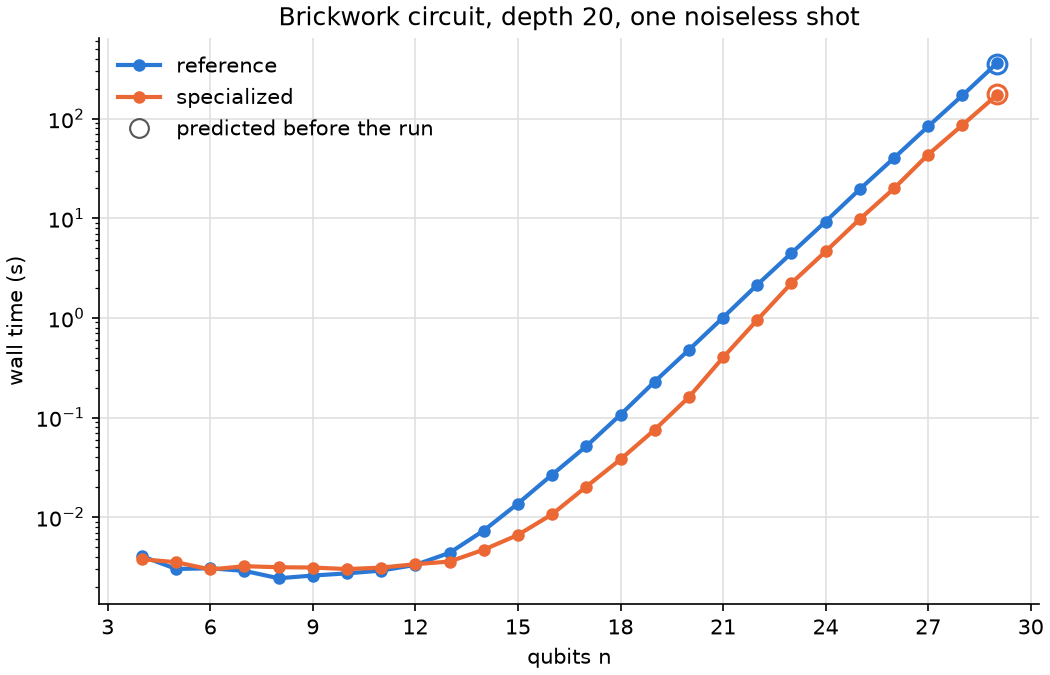
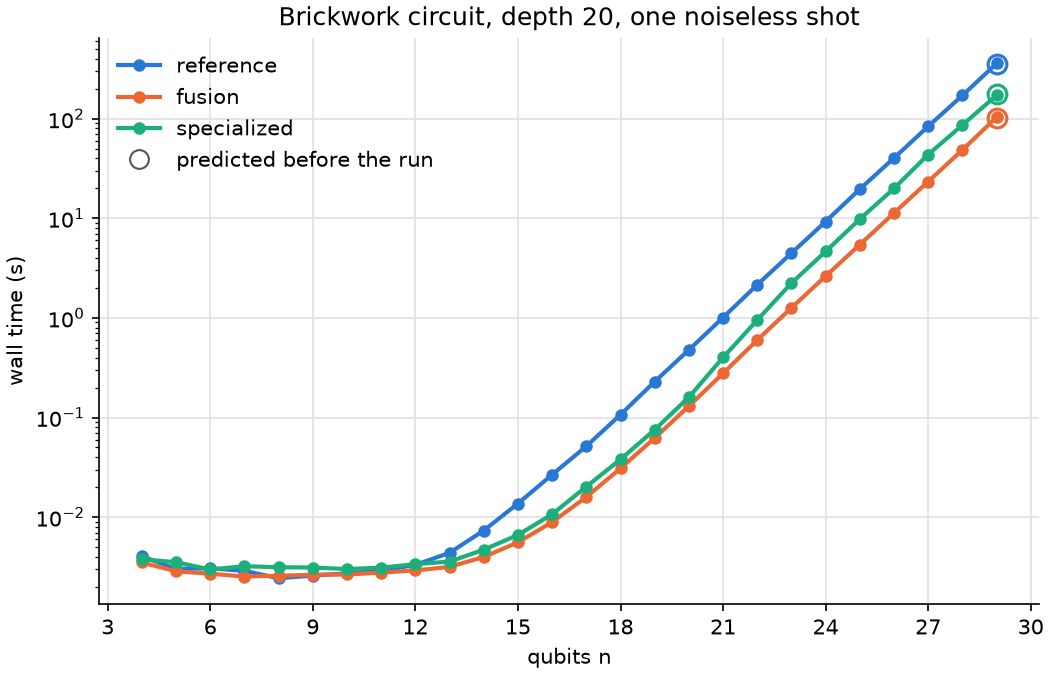
bench: add two-qubit fusion benchmark evidence
The results had no fusion run. Now fusion.json, the profile summary and the
plot show n = 29 in 103.7 s, 1.66x specialized, and 3678 shots/s at n = 12.

diff --git a/benchmarks/results/fusion-profile.md b/benchmarks/results/fusion-profile.md
@@ -1,0 +1,62 @@
+# Fusion profile (fusion 35b3578, Apple M3, Apple clang 21, -O3 -DNDEBUG)
+
+Time Profiler via `xcrun xctrace record`, 1 ms samples, inclusive share of samples. Same
+procedure, circuits and options as `specialized-profile.md`.
+Traces (local only): fusion-many-qubits.trace, fusion-many-shots.trace.
+
+| Function group                             | n=29 noiseless, 1 shot (101918 samples) | n=12 noisy, 100000 shots (26707 samples) |
+|--------------------------------------------|------:|------:|
+| StateVector::apply_real_2q                 | 95.4% | 83.0% |
+| StateVector::apply_real_1q                 | 1.9%  | 5.0%  |
+| StateVector::apply_2q (complex clusters)   | 0%    | 0.2%  |
+| fuse_trajectory (fused-matrix construction) | 0%   | 8.0%  |
+| allocation (StateVector ctor, __bzero)     | 0.4%  | 0.6%  |
+| measurement (probabilities + sample_index) | 2.3%  | 1.7%  |
+| sample_pauli_errors                        | 0%    | 0.7%  |
+
+Gate application takes about 97% of samples at n = 29 and 88% at n = 12. Fused-matrix
+construction is negligible at n = 29 and takes 8.0% of the many-shots samples. Clang reports
+that the `apply_real_2q` inner loop is not vectorized. The `apply_ry` and `apply_real_1q` inner
+loops are vectorized (width 2).
+
+## Results (fusion.json, run 2026-10-20)
+
+Same machine, circuits, seeds and peak bandwidth (100 GB/s) as `reference.json` and
+`specialized.json`. The reference is `v1-ref` (3cd8956). Correctness against it at n = 12 and
+10000 shots: noiseless counts are an exact match and the noisy chi-square p-value is 1.0.
+
+### Many qubits (noiseless, 1 shot)
+
+Greedy fusion to width two turns depth-20 brickwork into `10 n - 1` fused gates, and each gate
+is one full pass over the state: 32 logical bytes per amplitude. The fusion logical-byte model
+is `(10 n - 1) * 32 * 2^n`. The `modeled_bytes` and bandwidth fields in `fusion.json` retain the
+runner's per-gate convention, so the table derives the fusion values from the recorded wall
+times.
+
+| n | Wall time (s) | Speed-up vs specialized | Speed-up vs v1-ref | Logical-byte rate (GB/s) | % of peak |
+| ---: | ---: | ---: | ---: | ---: | ---: |
+| 24 | 2.628 | 1.77x | 3.54x | 48.8 | 48.8 |
+| 26 | 11.31 | 1.76x | 3.57x | 49.2 | 49.2 |
+| 28 | 48.61 | 1.78x | 3.53x | 49.3 | 49.3 |
+| 29 | 103.7 | 1.66x | 3.46x | 47.9 | 47.9 |
+
+Peak memory at n = 29 is 12.01 GiB, unchanged. The runner predicted 100.7 s for n = 29 from the
+n = 28 time; the measurement is 103.7 s (+2.9%). The traffic-model prediction written before
+the implementation was 69.1 s (2.49x); the measurement is 50% slower (1.66x).
+
+Fused real dense arithmetic is `10 (n - 1) * 14 + 9 * 6` FLOPs per amplitude, or 2.134e12 FLOPs
+at n = 29: 20.6 GFLOP/s, against 10.8 GFLOP/s for `specialized`.
+
+### Many shots (n = 12, 100000 shots, p_gate = p_idle = 1e-3, p_readout = 1e-2)
+
+| Wall time | Shots/s | Time per shot | Peak memory | Speed-up vs specialized | Speed-up vs v1-ref |
+| ---: | ---: | ---: | ---: | ---: | ---: |
+| 27.19 s | 3678 | 0.272 ms | 1.6 MiB | 1.07x | 3.77x |
+
+Useful arithmetic is `10 (n - 1) * 14 + 9 * 6` = 1594 FLOPs per amplitude: 24.0 GFLOP/s, against
+20.2 GFLOP/s for `specialized` (1440 FLOPs per amplitude).
+
+At large n the fused version moves about 48-49 GB/s of logical bytes, less than the 69-72 GB/s
+of the specialized kernels, while its FLOP rate doubled to the same 20-24 GFLOP/s range as the
+cache-resident many-shots regime. Thus the non-vectorized 4x4 kernel, not DRAM bandwidth, now
+limits both regimes.
